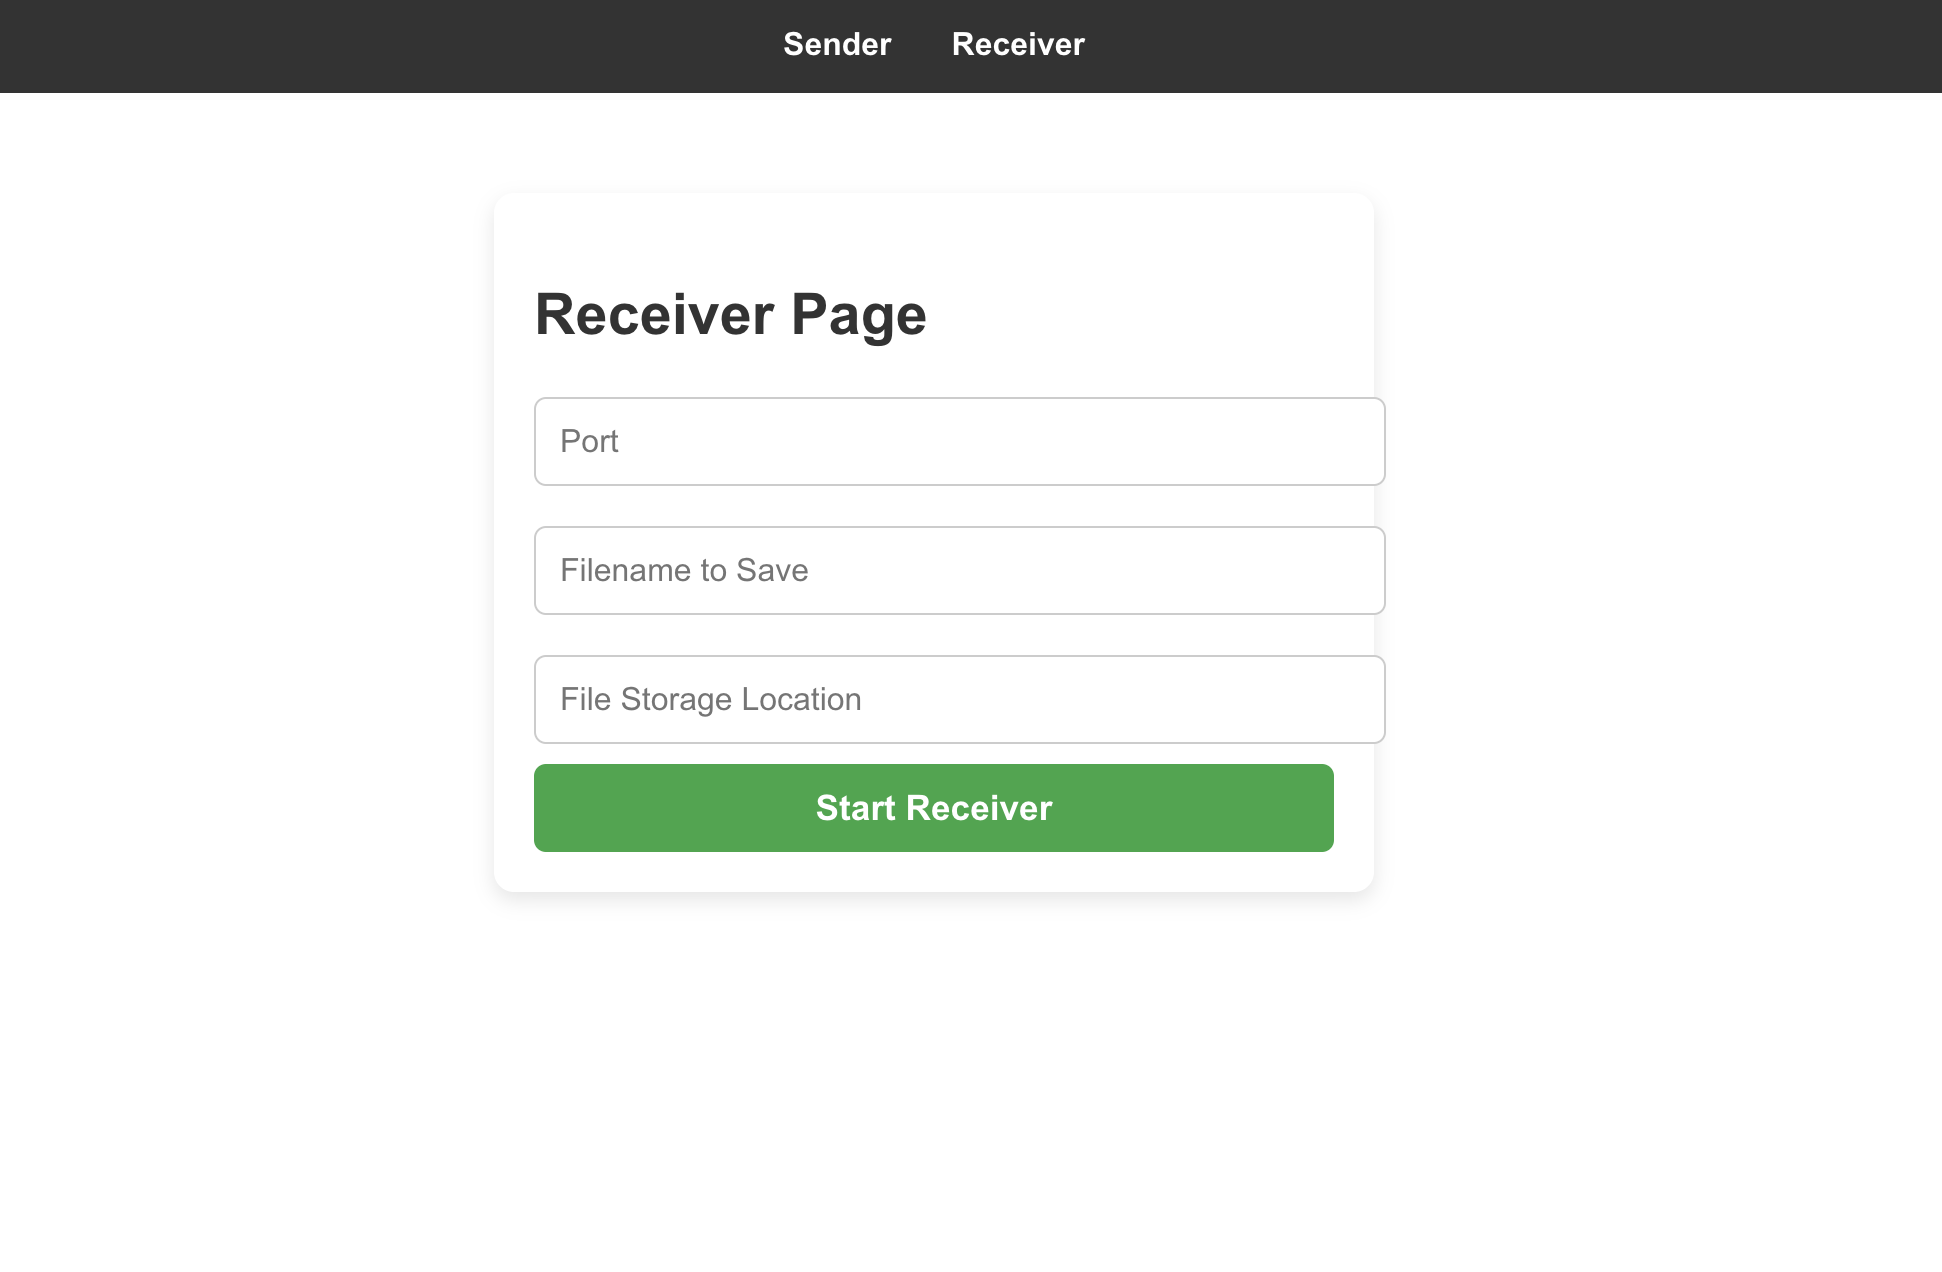
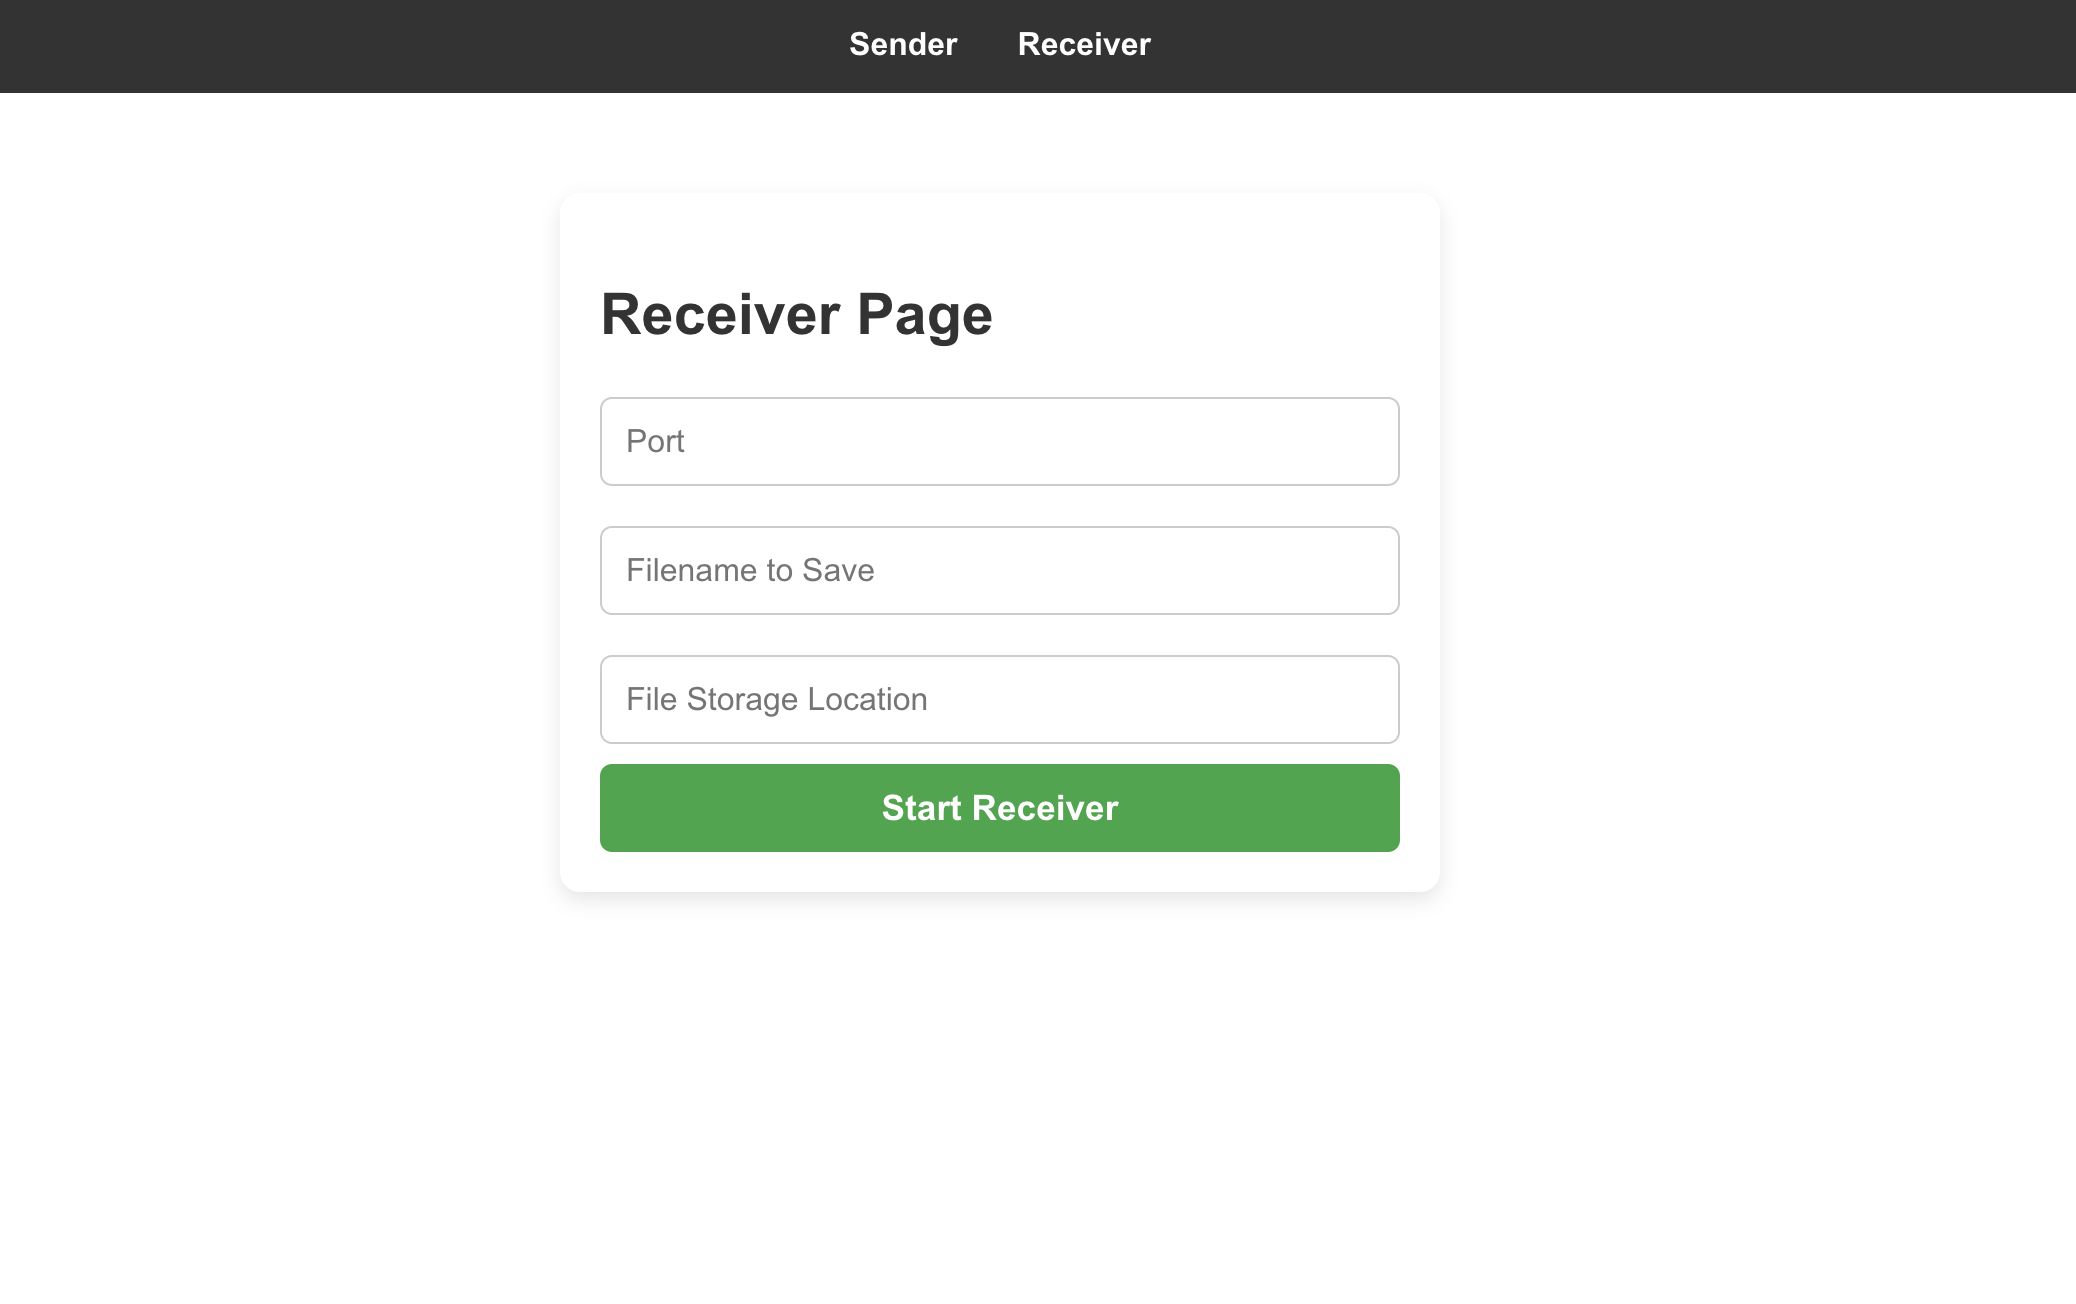
Fix input box boundary (#14)
* Fix input box boundary

* Fix images for root README

diff --git a/frontend/src/components/ReceiverPage.js b/frontend/src/components/ReceiverPage.js
@@ -19,6 +19,7 @@ const Title = styled.h2`
 
 const Input = styled.input`
   width: 100%;
+  box-sizing: border-box;
   padding: 12px;
   margin: 10px 0;
   border: 1px solid #ccc;

diff --git a/frontend/src/components/SenderPage.js b/frontend/src/components/SenderPage.js
@@ -19,6 +19,7 @@ const Title = styled.h2`
 
 const Input = styled.input`
   width: 100%;
+  box-sizing: border-box;
   padding: 12px;
   margin: 10px 0;
   border: 1px solid #ccc;
